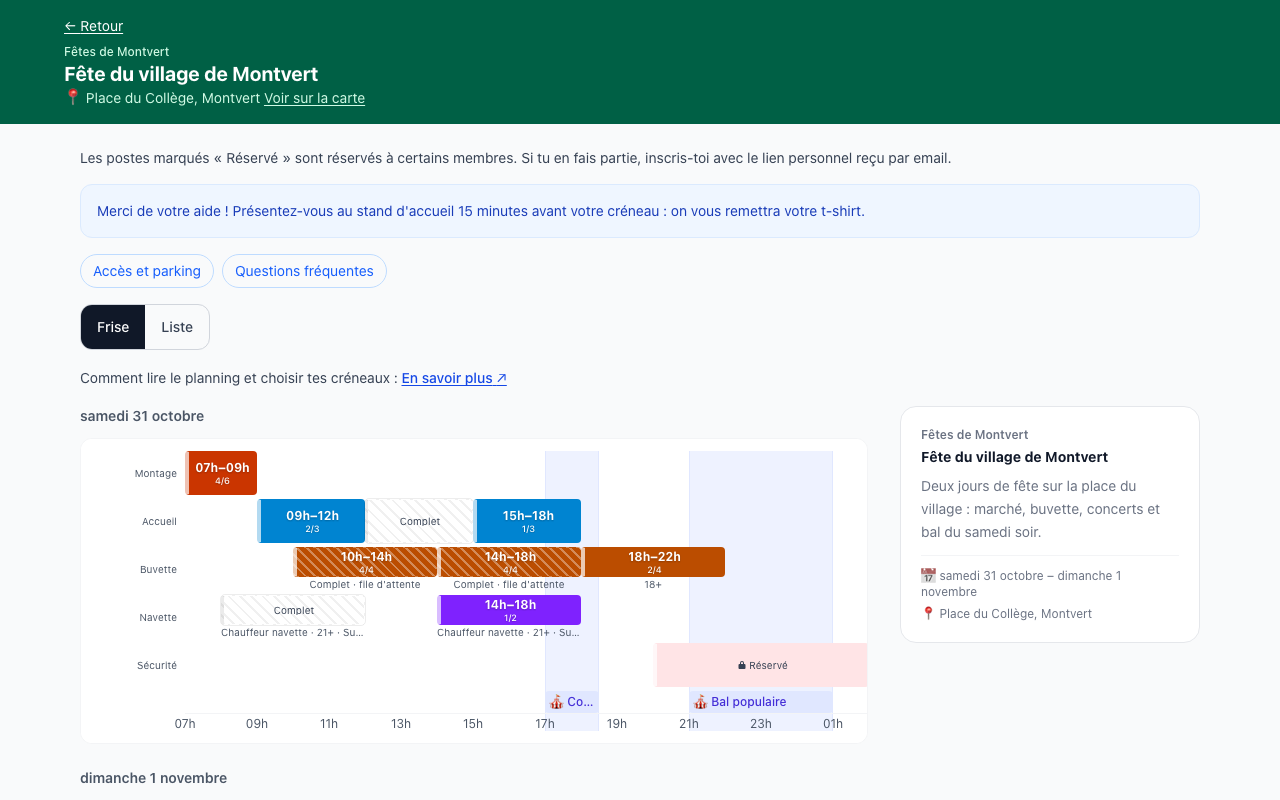
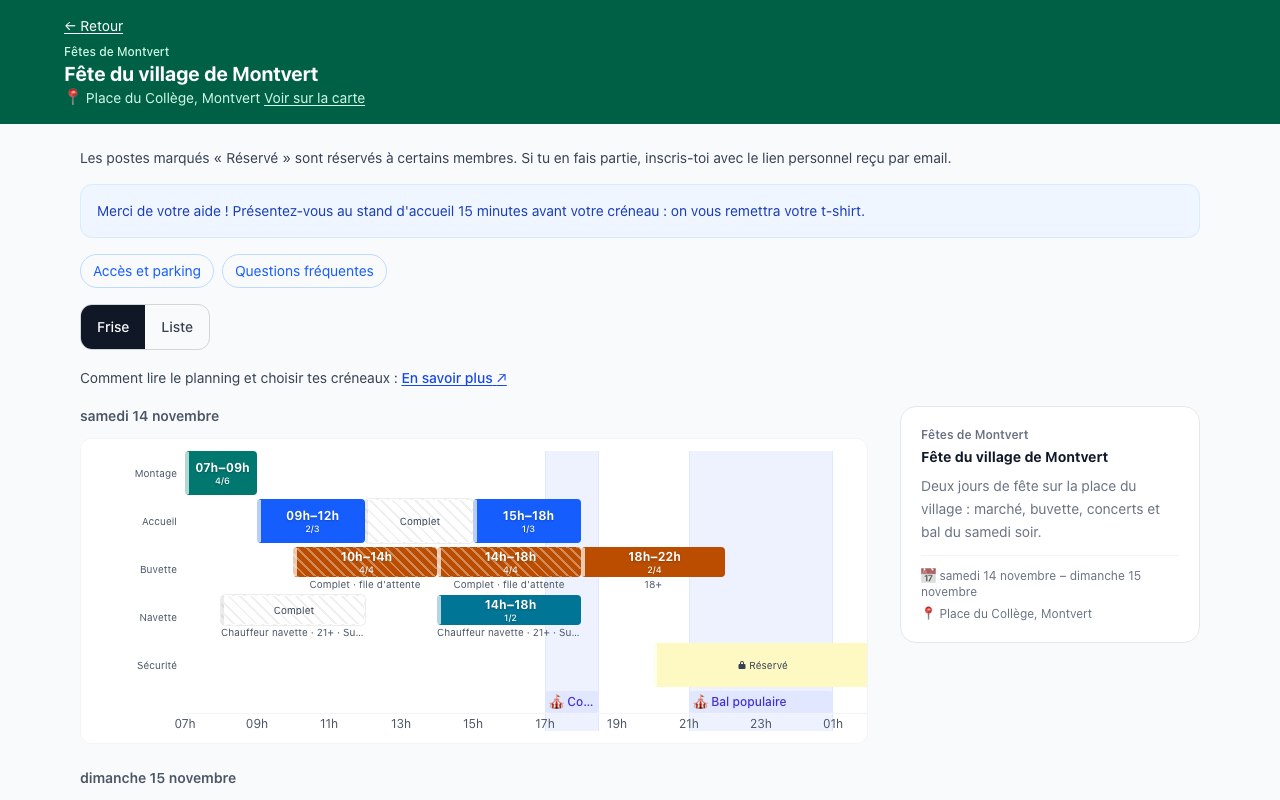
docs(guides): recapture the screens showing poste colours
The demo seed no longer forces a colour on its postes, so the captures
show the default colour of each poste family.

diff --git a/scripts/seed-demo.ts b/scripts/seed-demo.ts
@@ -162,23 +162,23 @@ async function main() {
     },
   })
 
-  type ShiftSeed = { roleName: string; date: Date; startTime: string; endTime: string; capacity: number; colorKey: string } & Partial<{
+  type ShiftSeed = { roleName: string; date: Date; startTime: string; endTime: string; capacity: number } & Partial<{
     label: string; waitlistEnabled: boolean; requiresApproval: boolean; minAge: number; reservedTags: string[]; maxPerVolunteer: number
     locationDetails: string; instructions: string; contactName: string; contactPhone: string; displayOrder: number
   }>
   const seeds: ShiftSeed[] = [
-    { roleName: "Montage", date: SAT, startTime: "07:00", endTime: "09:00", capacity: 6, colorKey: "slate", locationDetails: "Hangar communal", instructions: "Chaussures fermées" },
-    { roleName: "Accueil", date: SAT, startTime: "09:00", endTime: "12:00", capacity: 3, colorKey: "sky", locationDetails: "Stand d'accueil, entrée de la place" },
-    { roleName: "Accueil", date: SAT, startTime: "12:00", endTime: "15:00", capacity: 3, colorKey: "sky", locationDetails: "Stand d'accueil, entrée de la place" },
-    { roleName: "Accueil", date: SAT, startTime: "15:00", endTime: "18:00", capacity: 3, colorKey: "sky", locationDetails: "Stand d'accueil, entrée de la place" },
-    { roleName: "Buvette", date: SAT, startTime: "10:00", endTime: "14:00", capacity: 4, colorKey: "amber", waitlistEnabled: true, maxPerVolunteer: 2, contactName: "Élodie", contactPhone: "079 000 00 00" },
-    { roleName: "Buvette", date: SAT, startTime: "14:00", endTime: "18:00", capacity: 4, colorKey: "amber", waitlistEnabled: true, maxPerVolunteer: 2 },
-    { roleName: "Buvette", date: SAT, startTime: "18:00", endTime: "22:00", capacity: 4, colorKey: "amber", waitlistEnabled: true, maxPerVolunteer: 2, minAge: 18 },
-    { roleName: "Navette", label: "Chauffeur navette", date: SAT, startTime: "08:00", endTime: "12:00", capacity: 2, colorKey: "violet", requiresApproval: true, minAge: 21, instructions: "Permis B depuis 3 ans" },
-    { roleName: "Navette", label: "Chauffeur navette", date: SAT, startTime: "14:00", endTime: "18:00", capacity: 2, colorKey: "violet", requiresApproval: true, minAge: 21, instructions: "Permis B depuis 3 ans" },
-    { roleName: "Sécurité", date: SAT, startTime: "20:00", endTime: "02:00", capacity: 3, colorKey: "rose", reservedTags: ["sécurité"] },
-    { roleName: "Buvette", date: SUN, startTime: "10:00", endTime: "14:00", capacity: 4, colorKey: "amber", waitlistEnabled: true, maxPerVolunteer: 2 },
-    { roleName: "Démontage", date: SUN, startTime: "15:00", endTime: "18:00", capacity: 6, colorKey: "slate" },
+    { roleName: "Montage", date: SAT, startTime: "07:00", endTime: "09:00", capacity: 6, locationDetails: "Hangar communal", instructions: "Chaussures fermées" },
+    { roleName: "Accueil", date: SAT, startTime: "09:00", endTime: "12:00", capacity: 3, locationDetails: "Stand d'accueil, entrée de la place" },
+    { roleName: "Accueil", date: SAT, startTime: "12:00", endTime: "15:00", capacity: 3, locationDetails: "Stand d'accueil, entrée de la place" },
+    { roleName: "Accueil", date: SAT, startTime: "15:00", endTime: "18:00", capacity: 3, locationDetails: "Stand d'accueil, entrée de la place" },
+    { roleName: "Buvette", date: SAT, startTime: "10:00", endTime: "14:00", capacity: 4, waitlistEnabled: true, maxPerVolunteer: 2, contactName: "Élodie", contactPhone: "079 000 00 00" },
+    { roleName: "Buvette", date: SAT, startTime: "14:00", endTime: "18:00", capacity: 4, waitlistEnabled: true, maxPerVolunteer: 2 },
+    { roleName: "Buvette", date: SAT, startTime: "18:00", endTime: "22:00", capacity: 4, waitlistEnabled: true, maxPerVolunteer: 2, minAge: 18 },
+    { roleName: "Navette", label: "Chauffeur navette", date: SAT, startTime: "08:00", endTime: "12:00", capacity: 2, requiresApproval: true, minAge: 21, instructions: "Permis B depuis 3 ans" },
+    { roleName: "Navette", label: "Chauffeur navette", date: SAT, startTime: "14:00", endTime: "18:00", capacity: 2, requiresApproval: true, minAge: 21, instructions: "Permis B depuis 3 ans" },
+    { roleName: "Sécurité", date: SAT, startTime: "20:00", endTime: "02:00", capacity: 3, reservedTags: ["sécurité"] },
+    { roleName: "Buvette", date: SUN, startTime: "10:00", endTime: "14:00", capacity: 4, waitlistEnabled: true, maxPerVolunteer: 2 },
+    { roleName: "Démontage", date: SUN, startTime: "15:00", endTime: "18:00", capacity: 6 },
   ]
   const roleOrder = ["Montage", "Accueil", "Buvette", "Navette", "Sécurité", "Démontage"]
   const shifts = []
